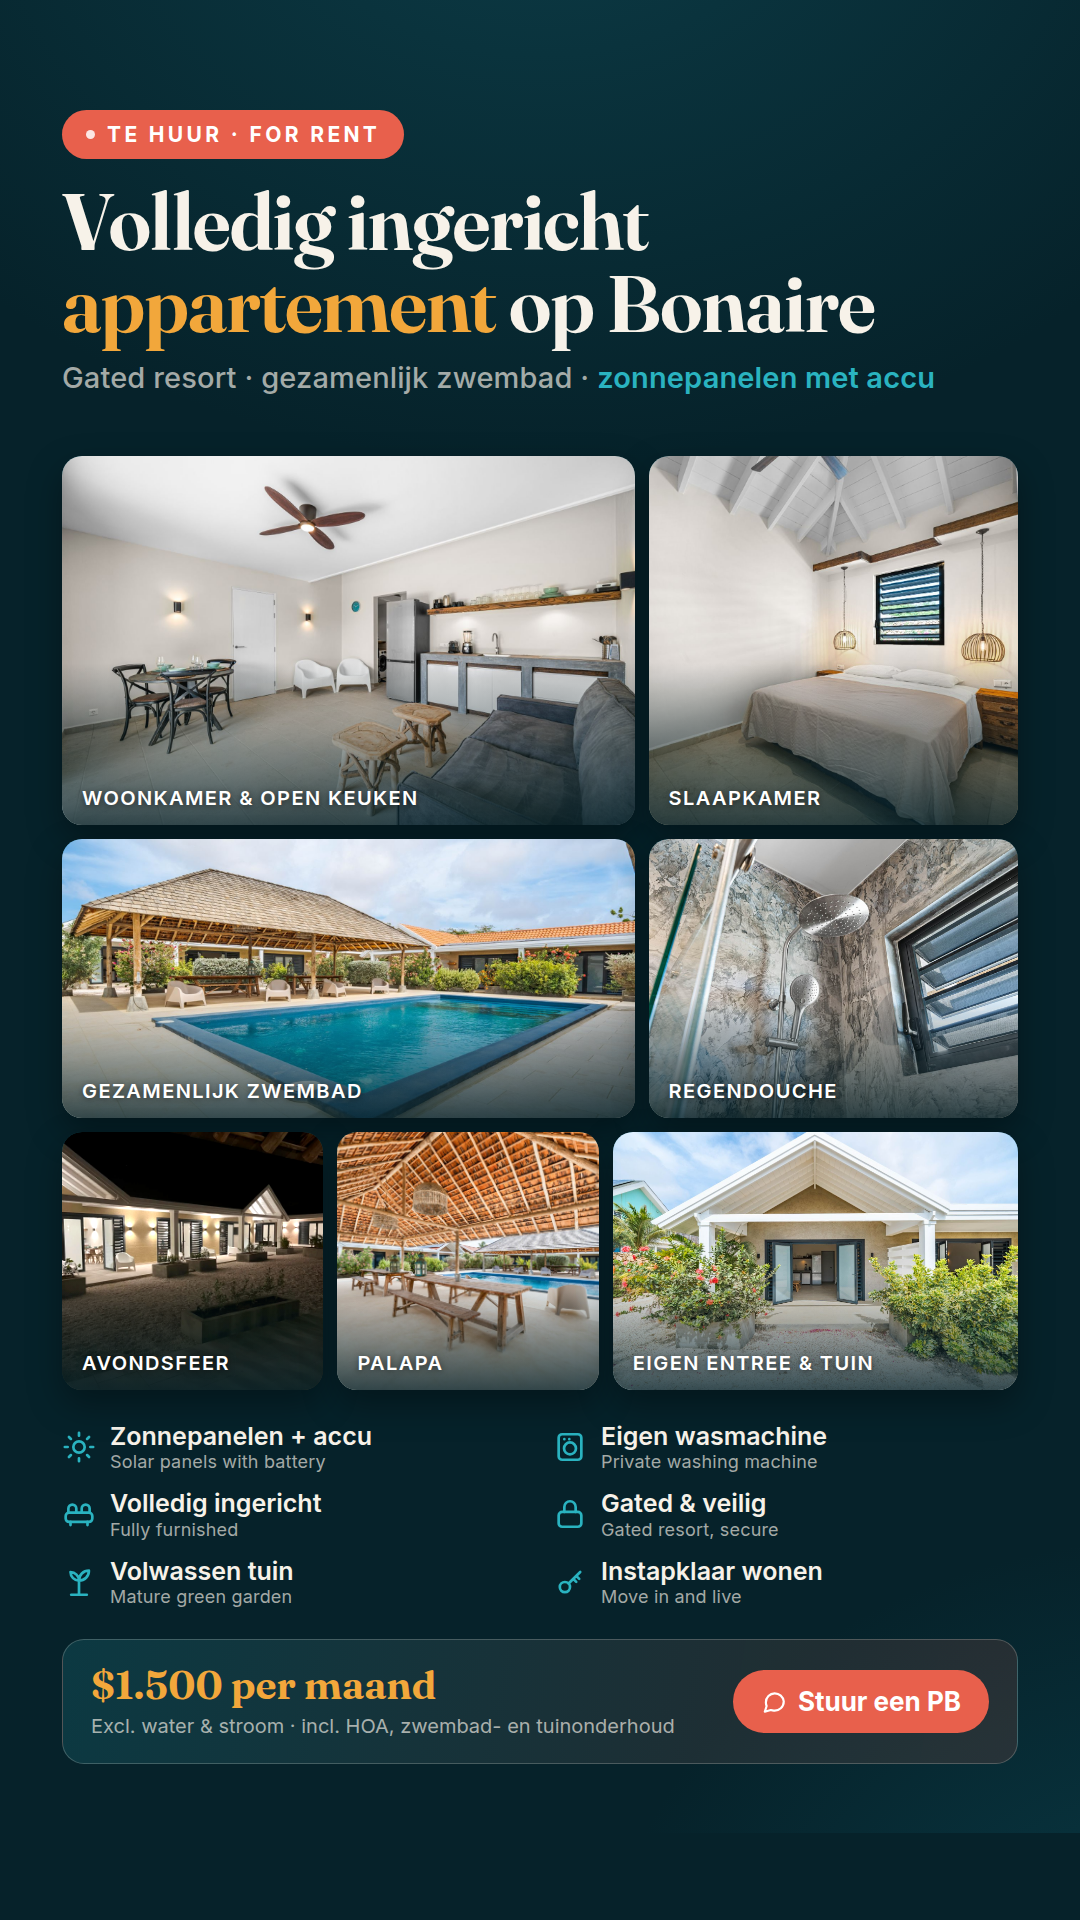
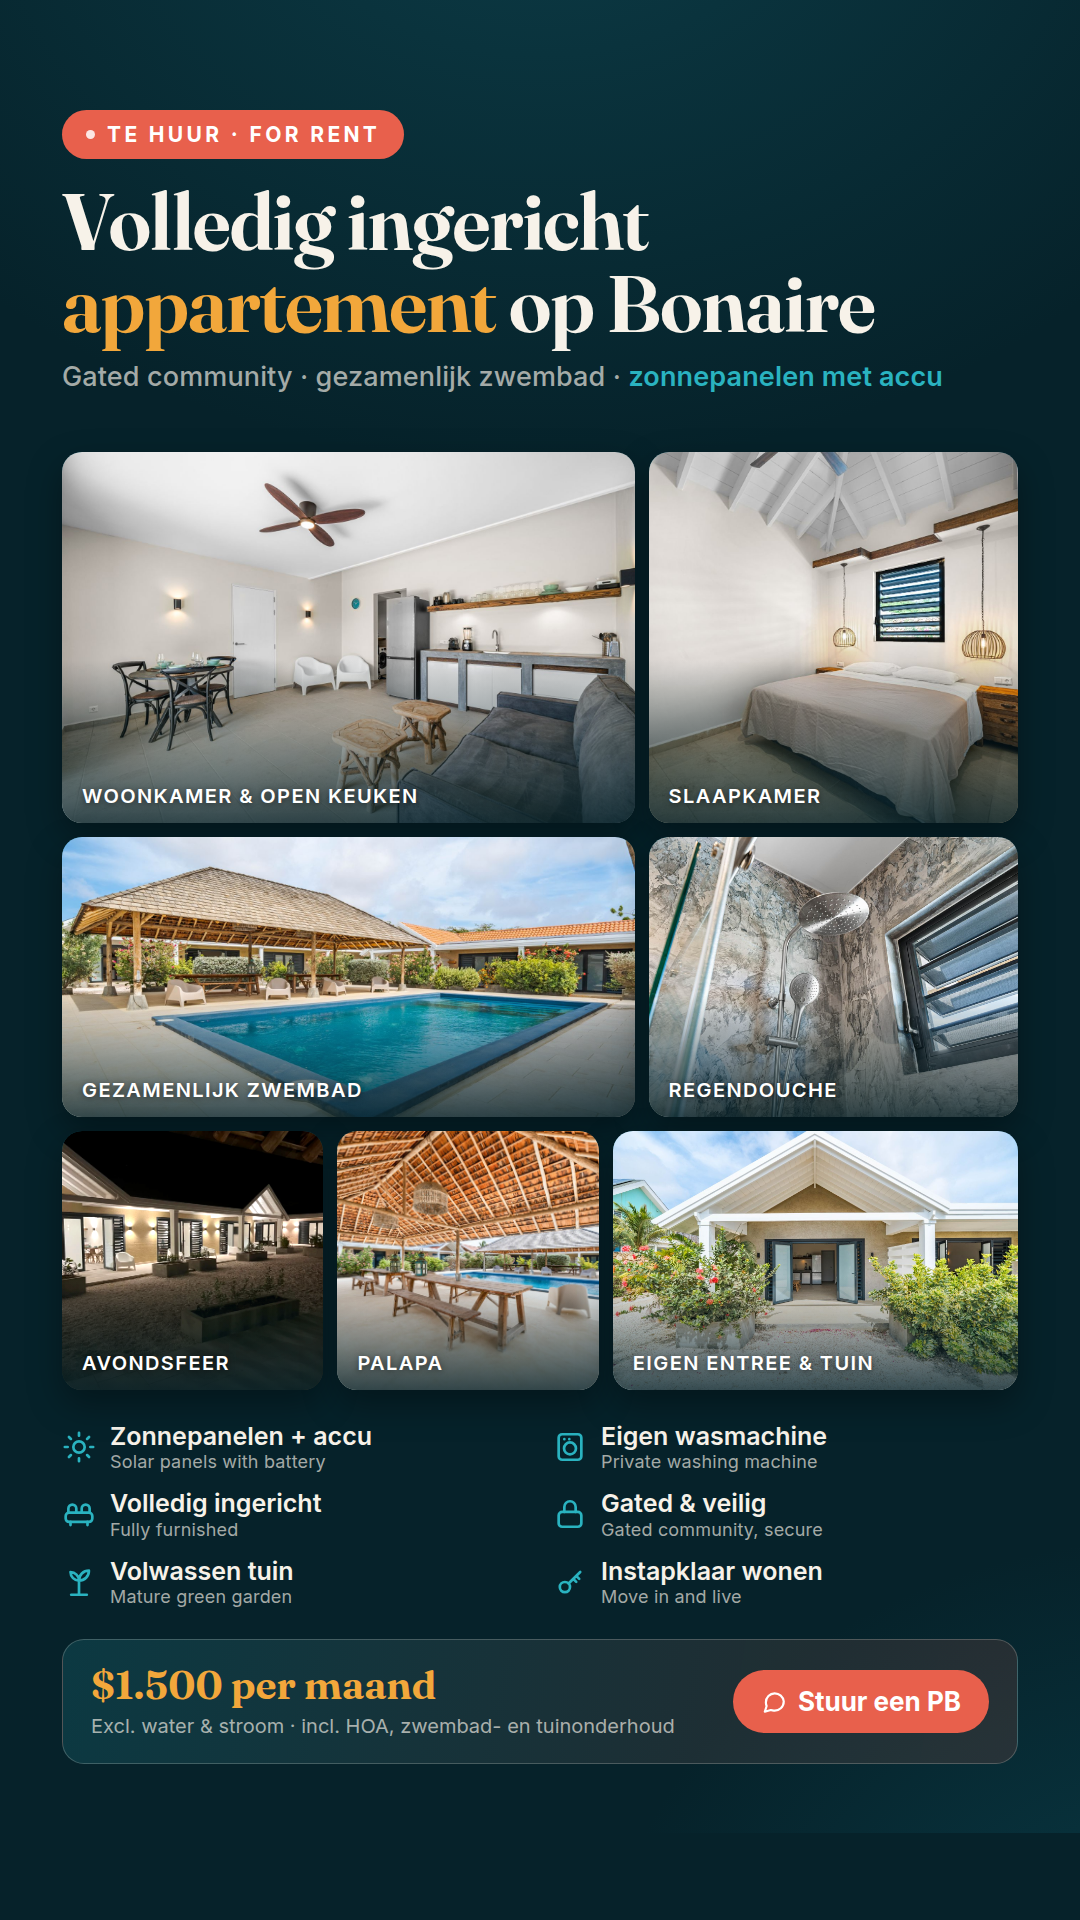
marketing: "resort" vervangen door "community"
Overal in de collage en de postteksten: gated community in plaats van gated
resort, en de plaatsaanduiding vraagt nu om wijk/community. De subkop onder
de titel is een fractie kleiner gezet (29 naar 27 px), anders liep de langere
regel tot tegen de rechtermarge aan.

Claude-Session: https://claude.ai/code/session_01KcqzwLz4Kogusytwj4wSC2

diff --git a/marketing/appartement/collage.html b/marketing/appartement/collage.html
@@ -33,7 +33,7 @@
   h1{font-family:"Fraunces",Georgia,serif;font-weight:650;font-size:80px;line-height:1.02;
     letter-spacing:-.015em;margin:22px 0 0}
   h1 em{font-style:normal;color:var(--sun)}
-  .sub{margin-top:16px;font-size:29px;font-weight:500;color:var(--soft);letter-spacing:.005em}
+  .sub{margin-top:16px;font-size:27px;font-weight:500;color:var(--soft);letter-spacing:.005em}
   .sub b{color:var(--turq);font-weight:600}
 
   /* ---------- photo mosaic ---------- */
@@ -79,7 +79,7 @@
   <header>
     <span class="eyebrow"><span class="dot"></span>Te huur · For rent</span>
     <h1>Volledig ingericht<br><em>appartement</em> op Bonaire</h1>
-    <p class="sub">Gated resort · gezamenlijk zwembad · <b>zonnepanelen met accu</b></p>
+    <p class="sub">Gated community · gezamenlijk zwembad · <b>zonnepanelen met accu</b></p>
   </header>
 
   <div class="mosaic">
@@ -134,7 +134,7 @@
     </div>
     <div class="feat">
       <svg viewBox="0 0 24 24"><rect x="4" y="10.5" width="16" height="10.5" rx="2.5"/><path d="M8 10.5V7a4 4 0 0 1 8 0v3.5"/></svg>
-      <div><span class="nl">Gated &amp; veilig</span><span class="en">Gated resort, secure</span></div>
+      <div><span class="nl">Gated &amp; veilig</span><span class="en">Gated community, secure</span></div>
     </div>
     <div class="feat">
       <svg viewBox="0 0 24 24"><path d="M12 21V11M12 11c0-4 3-7 7-7 0 4-3 7-7 7Zm0 0C12 7.7 9.3 5 6 5c0 3.3 2.7 6 6 6Z"/><path d="M6.5 21h11"/></svg>

diff --git a/marketing/appartement/facebook-post.md b/marketing/appartement/facebook-post.md
@@ -1,6 +1,6 @@
 # Facebook-post — appartement te huur (langere termijn)
 
-> De prijs staat erin. Vul de blokken tussen `[ ]` nog in vóór je plaatst: wijk/resort, beschikbaarheid,
+> De prijs staat erin. Vul de blokken tussen `[ ]` nog in vóór je plaatst: wijk/community, beschikbaarheid,
 > minimale huurperiode en contact.
 > Plaats `collage-9x16.png` als afbeelding en zet deze tekst in het bijschrift. Reacties met "info"
 > beantwoorden via PB werkt op Bonaire beter dan de prijs in de comments herhalen.
@@ -9,7 +9,7 @@
 
 ## Versie A — Nederlands + Engels (aanbevolen, één post)
 
-🌴 **TE HUUR — volledig ingericht appartement in een gated resort op Bonaire**
+🌴 **TE HUUR — volledig ingericht appartement in een gated community op Bonaire**
 
 Instappen en wonen. Geen meubels sjouwen, geen verrassingen: alles staat er al.
 
@@ -19,18 +19,18 @@ Instappen en wonen. Geen meubels sjouwen, geen verrassingen: alles staat er al.
 ☀ Zonnepanelen mét accu — lage stroomkosten en gewoon licht als de rest van de wijk zonder zit
 🏊 Gezamenlijk zwembad met palapa en lange tafels
 🌳 Volwassen, groene tuin met een eigen entree en terras — 's avonds sfeervol verlicht
-🔒 Gated resort — rustig en veilig
+🔒 Gated community — rustig en veilig
 
 Perfect voor wie voor werk of langere tijd naar Bonaire komt en meteen wil landen.
 
-📍 [wijk / resort]
+📍 [wijk / community]
 💵 $1.500 per maand — excl. water en stroom, incl. HOA (onderhoud zwembad en tuin)
 📅 Beschikbaar per [datum] — minimale huurperiode [x maanden]
 📞 Interesse? Stuur een PB of app [naam + telefoonnummer]
 
 ---
 
-🌴 **FOR RENT — fully furnished apartment in a gated resort on Bonaire**
+🌴 **FOR RENT — fully furnished apartment in a gated community on Bonaire**
 
 Move in and live. No furniture hunting, no surprises — everything is already there.
 
@@ -40,11 +40,11 @@ Move in and live. No furniture hunting, no surprises — everything is already t
 ☀ Solar panels with battery — low electricity bills, and the lights stay on when the neighbourhood goes dark
 🏊 Shared pool with palapa and long tables
 🌳 Mature, green garden with your own entrance and terrace, beautifully lit at night
-🔒 Gated resort — quiet and secure
+🔒 Gated community — quiet and secure
 
 Ideal if you're moving to Bonaire for work or for a longer stay and want to settle in right away.
 
-📍 [area / resort]
+📍 [area / community]
 💵 $1,500 per month — excl. water and electricity, incl. HOA (pool and garden maintenance)
 📅 Available from [date] — minimum stay [x months]
 📞 Interested? Send a DM or WhatsApp [name + phone number]
@@ -55,14 +55,14 @@ Ideal if you're moving to Bonaire for work or for a longer stay and want to sett
 
 ## Versie B — korter, voor in verhuurgroepen
 
-☀ Volledig ingericht appartement te huur op Bonaire — gated resort, gezamenlijk zwembad met palapa,
+☀ Volledig ingericht appartement te huur op Bonaire — gated community, gezamenlijk zwembad met palapa,
 volwassen tuin. Woonkamer met open keuken, slaapkamer, eigen badkamer met regendouche, eigen wasmachine
 en zonnepanelen mét accu (dus lage stroomkosten en geen gedoe bij stroomuitval). Instapklaar: je hoeft
 alleen je koffer neer te zetten.
 
 📍 [wijk] · 💵 $1.500 p/m excl. water & stroom · 📅 vanaf [datum] · 📞 PB of app [nummer]
 
-🇬🇧 Fully furnished apartment for rent on Bonaire — gated resort, shared pool, mature garden. Living room
+🇬🇧 Fully furnished apartment for rent on Bonaire — gated community, shared pool, mature garden. Living room
 with open kitchen, bedroom, private bathroom, own washing machine and solar panels with battery. Just bring
 your suitcase. $1,500 per month excl. water and electricity. DM for details.
 

diff --git a/marketing/appartement/README.md b/marketing/appartement/README.md
@@ -1,6 +1,6 @@
 # Appartement te huur — collage + Facebook-post
 
-Marketingmateriaal voor de verhuur van het volledig ingerichte appartement (gated resort, Bonaire).
+Marketingmateriaal voor de verhuur van het volledig ingerichte appartement (gated community, Bonaire).
 
 ## Bestanden
 
